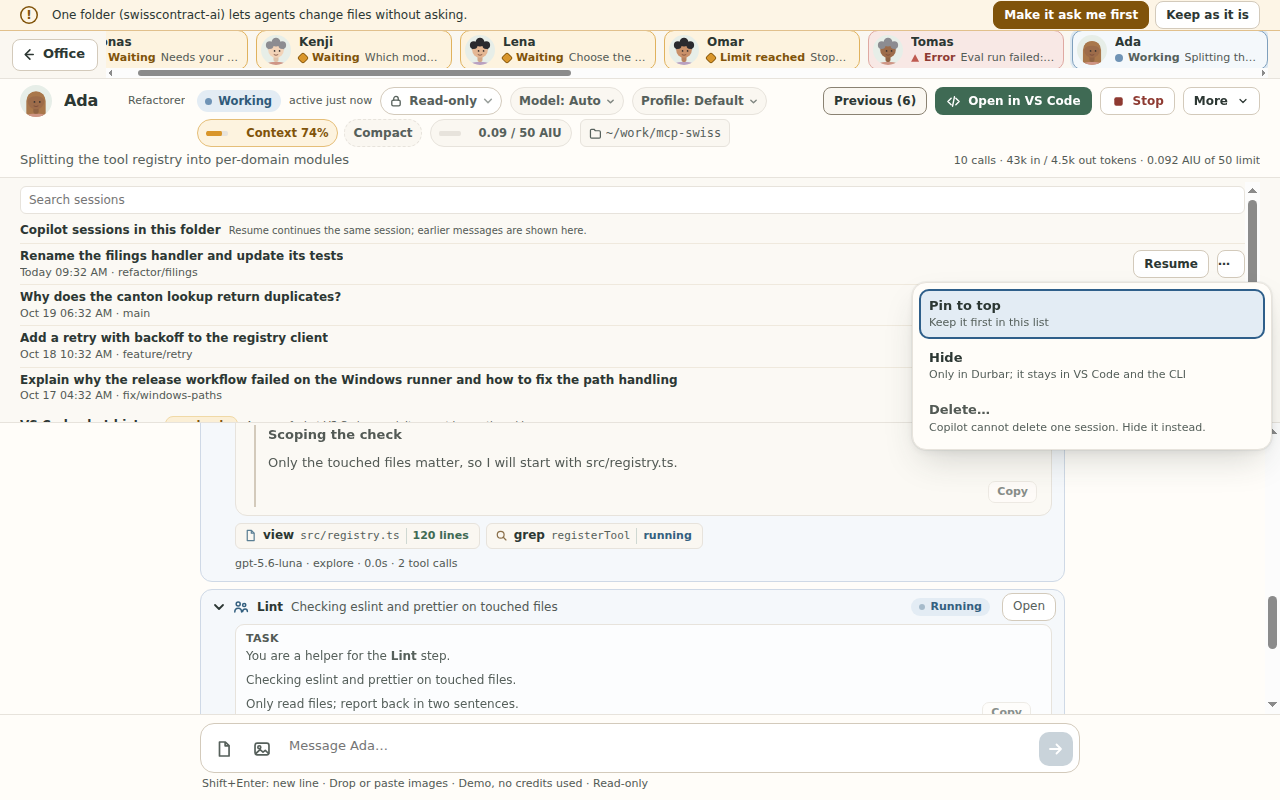
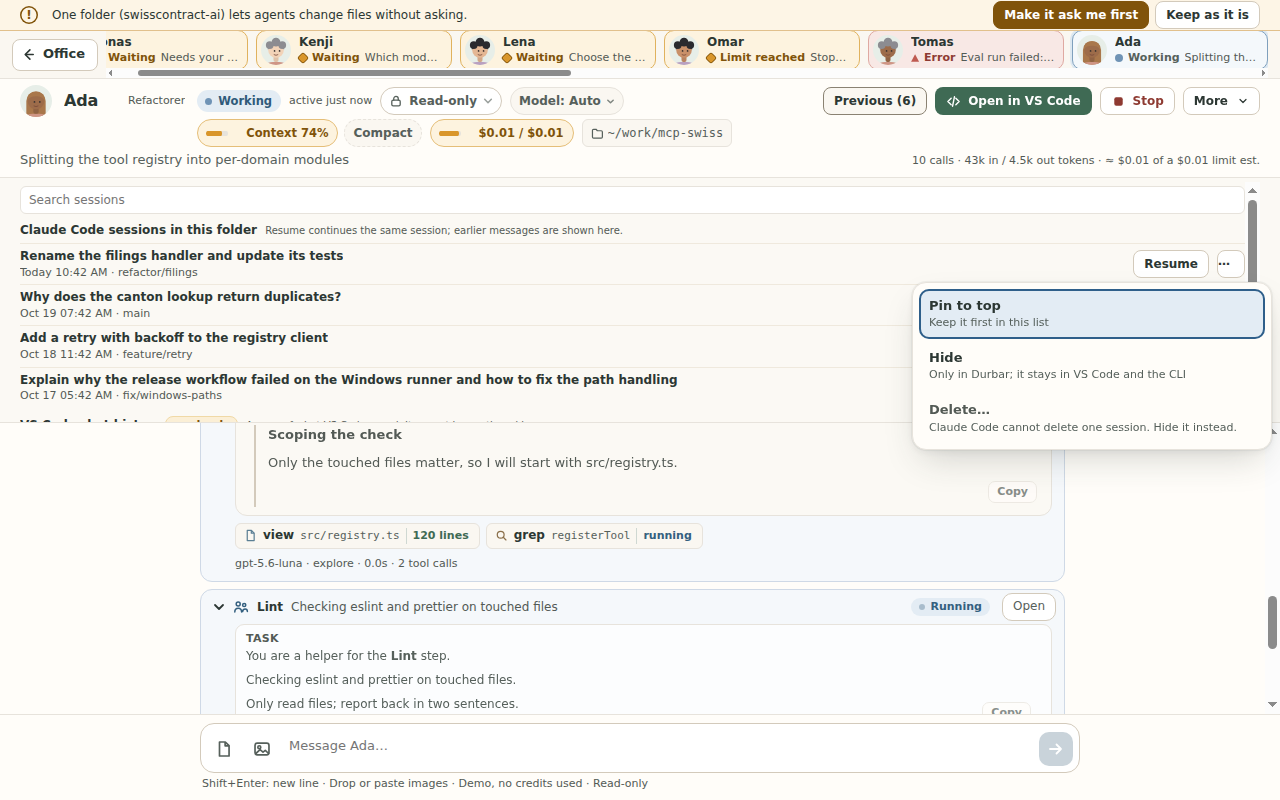
006: re-shoot the disabled Delete… with a Claude Code agent; spec evidence (T043)
Claude-Session: https://claude.ai/code/session_01Mj63agcLftbxvrSoGqM1Fp

diff --git a/specs/006-folders-workspaces-sessions-history/spec.md b/specs/006-folders-workspaces-sessions-history/spec.md
@@ -231,6 +231,6 @@ For a folder that has not been used yet in this run, a "Previous sessions" panel
   Buttons: **Cancel**, **Delete** (no "…", design rule 6). While it runs, the row's ⋯ shows the shared busy state and the row's buttons are disabled. Success: the row leaves the list, counts update, toast "Session deleted.", announcement "Deleted.". Error: toast "Could not delete: <error>" (error style), the row stays. Delete… is **never offered on an office card** (desk card, list row, chat header or card menu); it exists only in *Previous sessions*, where a session appears once it has no card. The path is End → **Remove from office** (FR-017, deletes nothing) → *Previous sessions* → **Delete…**. Refusal (`code: 'in-office'`, a race or a stale list): a dialog **This session is still in the office** with "This session is still in the office. End it and remove it from the office first." Buttons: **Cancel**, **Go to session** (opens that agent's chat) and **Remove from office** (the existing FR-017 flow with its own confirmation when the session is busy). When the session is its folder's only main session, FR-017 has no Remove from office; the button is then left out and the dialog adds "It is the only session in this folder: start a new session there first." Durbar never ends, removes or deletes a session by itself as part of this dialog; after Remove from office the user deletes again from the list.
 - **FR-031** `[IMPLEMENTED]` **Activity log row.** `ACTIVITY_DECISIONS` (`src/shared/activity.ts:14`) gets `session-deleted`, shown as "Session deleted" (`src/renderer/activitytable.js`). The row is recorded in main, never by the window: agent = the agent whose panel was used, folder base name, app display name, current mode, action "Session deleted · <agent app> · <short id> · last used <date>" (`<short id>` = the first 8 characters of the session id; `<date>` = the session's last-used date from the list). No title (Clarifications Q2: titles can hold prompt text and the log can be exported). Once session rename exists (issue #372) the user's own alias may be shown instead of nothing; that is a later change.
 - **FR-032** `[IMPLEMENTED]` **Open sessions are left out by resume id too.** `sessions:listPrevious` and the resume/delete re-checks exclude both Durbar ids and resume ids (`resumeIdFor`) of the agents in the office. `read:` a Codex session started under a Durbar id other than its thread id (`codex.ts:594`, resume and restore) is excluded today only by Durbar id, so its thread may be listed while open (not observed; the Codex adapter also adds its live ids, which are Durbar ids). This makes the FR-029 refusal a last guard, not the usual path.
-- **Evidence (2026-10-20):** `test:` `scripts/test-folders.ts` (lists, strict ids, cap, exclusive, no rewrite), `scripts/test-sessionsearch.ts` (`arrangeSessions`, `applyMark`, words of FR-030), `scripts/test-prevsessions.ts` (delete order, every refusal, in flight, marks, list by resume id, Copilot on a fake client, reachability and Q1 source checks), `scripts/test-codex-adapter.ts` (`thread/delete` on the fake app-server), `scripts/test-adapter-contract.ts` C2, `scripts/test-activity.ts`. `sim:` `scripts/shots-006-prevmarks.js` at 1440x900 and 1280x800, Expert and Simple (row fit asserted, menu, pins, Show hidden, confirmation with Cancel focused, refusal with and without Remove from office, Delete… disabled): `docs/screenshots/006-prev-*.png`. Mutation checks on the refusal (card id, resume id, `isLive`) and on the id allow-list (dots, slash, no check) fail the tests. `[KNOWN GAP]`: a real delete on Copilot and Codex (needs the owner's OK and a throwaway session), another process holding the same session, macOS/Windows, and the keyboard path (Shift+F10, context-menu key) was not driven in Electron.
+- **Evidence (2026-10-20):** `test:` `scripts/test-folders.ts` (lists, strict ids, cap, exclusive, no rewrite), `scripts/test-sessionsearch.ts` (`arrangeSessions`, `applyMark`, words of FR-030), `scripts/test-prevsessions.ts` (delete order, every refusal, in flight, marks, list by resume id, Copilot on a fake client, reachability and Q1 source checks), `scripts/test-codex-adapter.ts` (`thread/delete` on the fake app-server), `scripts/test-adapter-contract.ts` C2, `scripts/test-activity.ts`. `sim:` `scripts/shots-006-prevmarks.js` at 1440x900 and 1280x800, Expert and Simple (row fit asserted, menu, pins, Show hidden, confirmation with Cancel focused, refusal with and without Remove from office, Delete… disabled on a Claude Code agent with `simkinds=mixed`): `docs/screenshots/006-prev-*.png`. Mutation checks on the refusal (card id, resume id, `isLive`), on the Codex thread-id refusal and on the id allow-list (dots, slash, no check) fail the tests. `[KNOWN GAP]`: a real delete on Copilot and Codex (needs the owner's OK and a throwaway session), another process holding the same session, macOS/Windows, and the keyboard path (Shift+F10, context-menu key) was not driven in Electron.
 - **Constraints:** ids only in Durbar's store; agent specifics stay behind `AgentAdapter` (the renderer sees only the capability flag via the agent's features); no file is deleted by Durbar; no shell, no paths over IPC; simulator and unit tests; **no real delete in any test** (fake adapter and fake RPC/client only); screenshots at 1440x900 and 1280x800 (`DURBAR_SIM=15`). `[KNOWN GAP]` until checked: a real delete on Copilot and Codex (needs a throwaway session, so at least one prompt each; ask the owner first), behaviour when another process (Copilot CLI or VS Code, Codex app) has the same session open, and macOS/Windows.
 - **Owner decisions:** Q1 and Q2 were answered on 2026-10-20; see *Clarifications, Session 2026-10-20* at the top of this spec.
